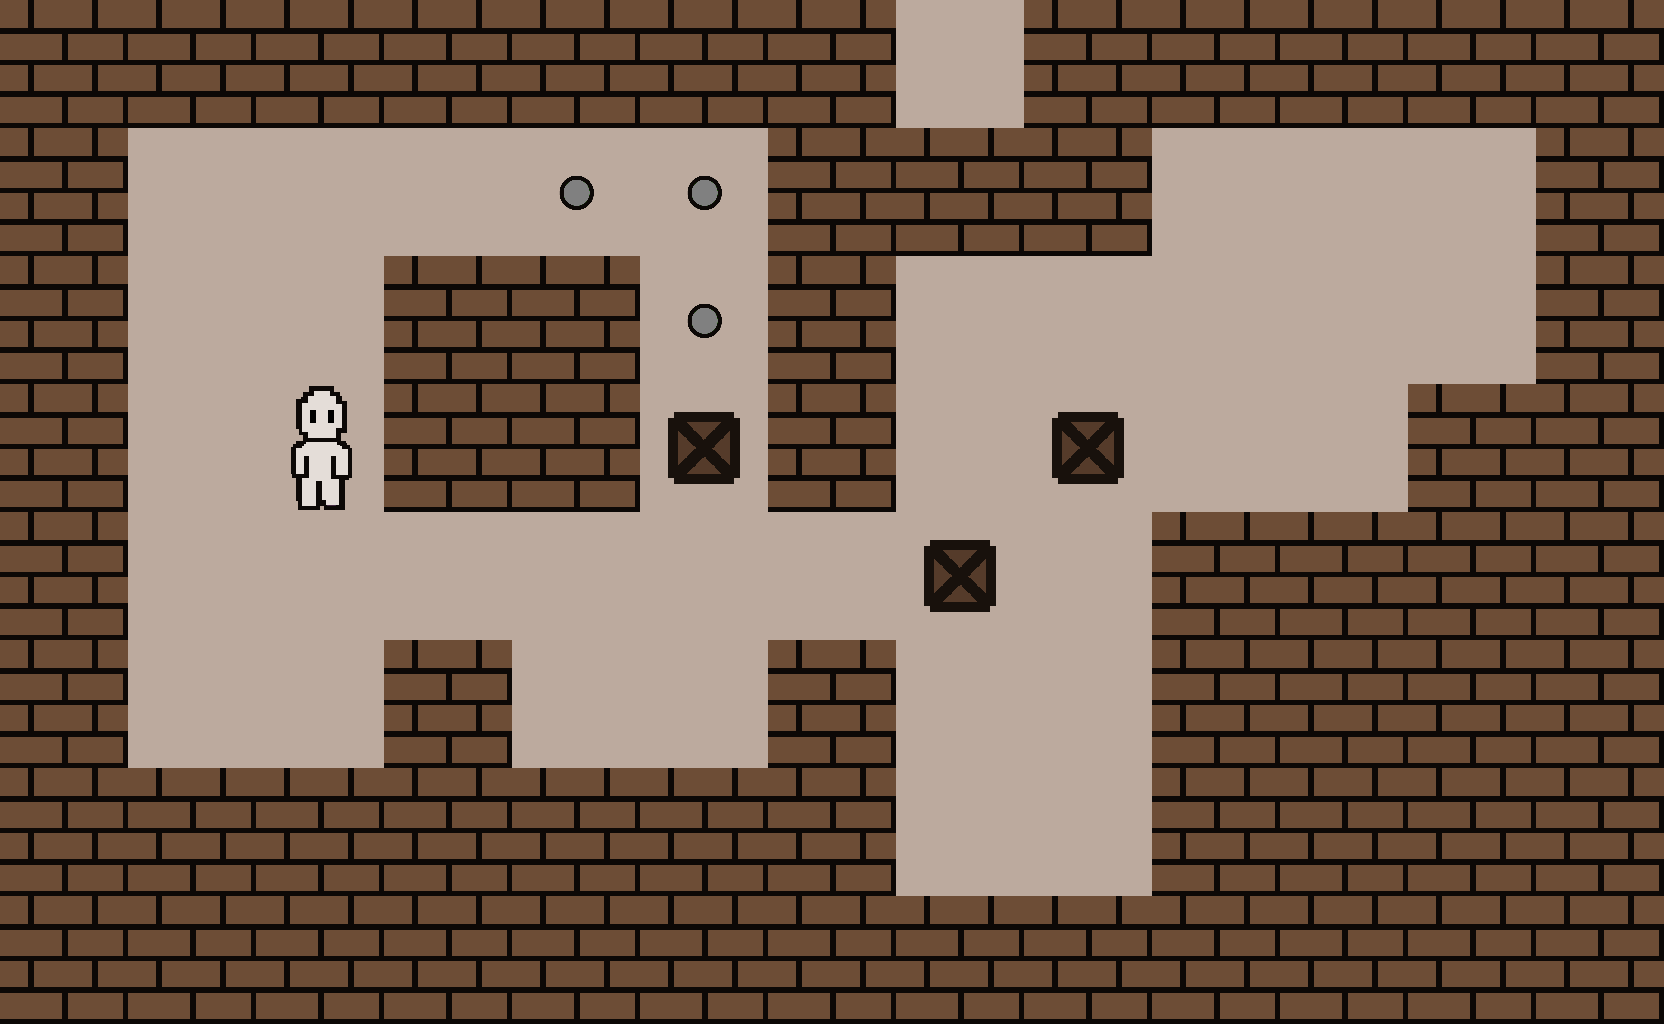
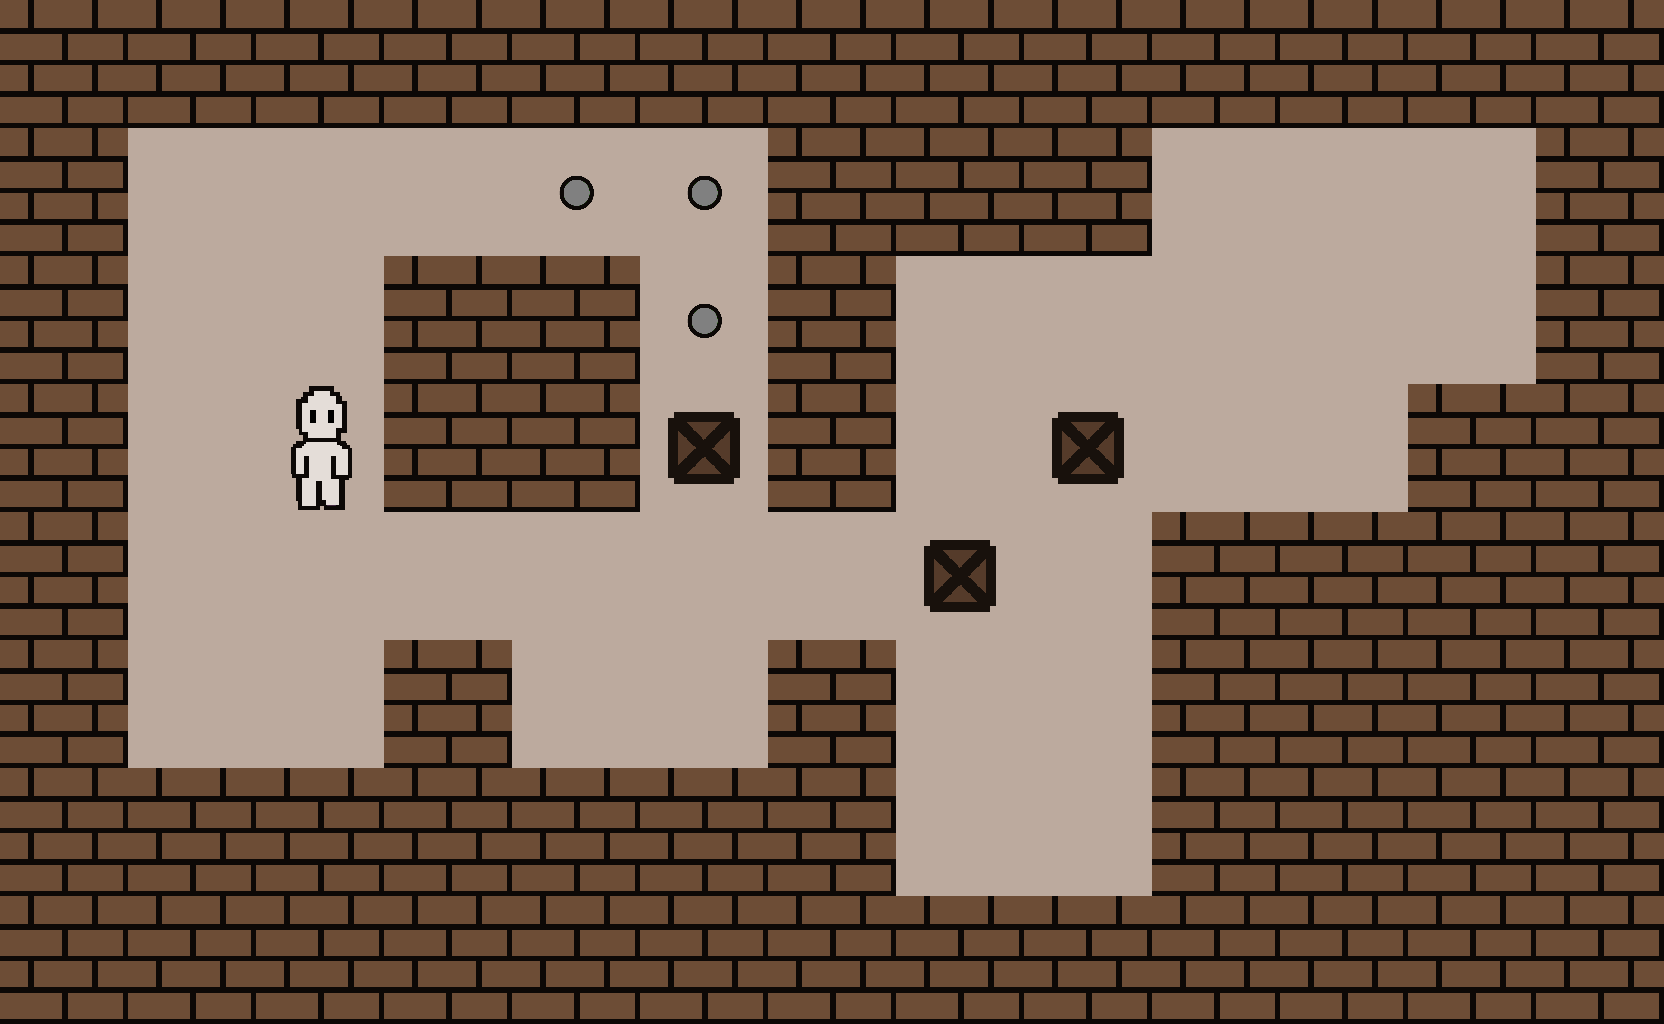
Fixed visualization bug.

Changed region(s): [[0.5312, 0.0, 0.625, 0.125]]

diff --git a/game/Sokoban.py b/game/Sokoban.py
@@ -12,7 +12,32 @@ from deadlock_detection.detect_deadlocks import check_deadlock
 from deadlock_detection.precompute_deadlocks import compute_deadlocks
 from game.reward import Reward
 
-# negative minimum cost perfect matching (Pushing the limits: New developments in single-agent search: Technical report) 
+# used for visualization    
+def fix_level(level):
+    height = level.shape[0]
+    width = max(len(row) for row in level)
+    fixed_level = np.ones((height, width), dtype=int)*Elements.WALL.value
+    
+    # start from the current player position
+    player = np.where(np.isin(level, [Elements.PLAYER.value, Elements.PLAYER_ON_GOAL.value]))
+    player = (player[0][0], player[1][0])
+    
+    # start bfs from player position
+    q = Queue()
+    q.put(player)
+    while not q.empty():
+        x, y = q.get()
+        fixed_level[x, y] = Elements.FLOOR.value
+        for dx, dy in [(0, 1), (1, 0), (0, -1), (-1, 0)]:
+            new_x, new_y = x + dx, y + dy
+            if 0 <= new_x < height and 0 <= new_y < width and fixed_level[new_x, new_y] == Elements.WALL.value and level[new_x, new_y] != Elements.WALL.value:
+                q.put((new_x, new_y))
+                
+    for i in range(len(level)):
+        for j in range(len(level[i])):
+            if fixed_level[i, j] == Elements.FLOOR.value:
+                fixed_level[i, j] = level[i, j]
+    return fixed_level
 
 class SokobanBoard:
     
@@ -48,13 +73,7 @@ class SokobanBoard:
                 for j, char in enumerate(line.replace('\n', '')):
                     level[i, j] = char_to_element[char].value
                     
-            # fix left side:
-            for row in level:
-                for i in range(len(row)):
-                    if row[i] == Elements.FLOOR.value:
-                        row[i] = Elements.WALL.value
-                    else:
-                        break
+            level = fix_level(level)
             
         return level
     
@@ -164,3 +183,4 @@ class SokobanBoard:
             return Reward(reward, "LOSS")
         else:
             return Reward(reward, "STEP")
+

diff --git a/visualization/save_board_image.py b/visualization/save_board_image.py
@@ -6,6 +6,7 @@ import sys
 import os
 import random
 sys.path.append(os.path.dirname(os.path.dirname(os.path.abspath(__file__))))
+from game.Sokoban import fix_level
 
 # print current path
 print(os.path.dirname(os.path.dirname(os.path.abspath(__file__))))
@@ -26,14 +27,8 @@ def load_level(path):
         for i, line in enumerate(lines):
             for j, char in enumerate(line.replace('\n', '')):
                 level[i, j] = char_to_element[char].value
-                
-        # fix left side:
-        for row in level:
-            for i in range(len(row)):
-                if row[i] == Elements.FLOOR.value:
-                    row[i] = Elements.WALL.value
-                else:
-                    break
+        
+        level = fix_level(level)        
         
     return level
 

diff --git a/demo.py b/demo.py
@@ -21,6 +21,6 @@ if args.seed:
 
 solver = sokoban_solver.Solver()
 outcome = solver.solve(args.level_id, args.folder, args.num_iters, args.verbose, args.mode)
-if args.verbose in [0,1]:
+if args.verbose in [0,2]:
     print("                                                                            ", end="\r")
     print(outcome)

diff --git a/agent/MCTS.py b/agent/MCTS.py
@@ -234,7 +234,6 @@ class MCTS():
                     node.update(reward.get_value(), reward)
             if self.root.max_value.get_type() == "WIN":
                 break
-            
         if self.root.max_value.get_type() == "WIN":
             moves = []
             node = self.root
